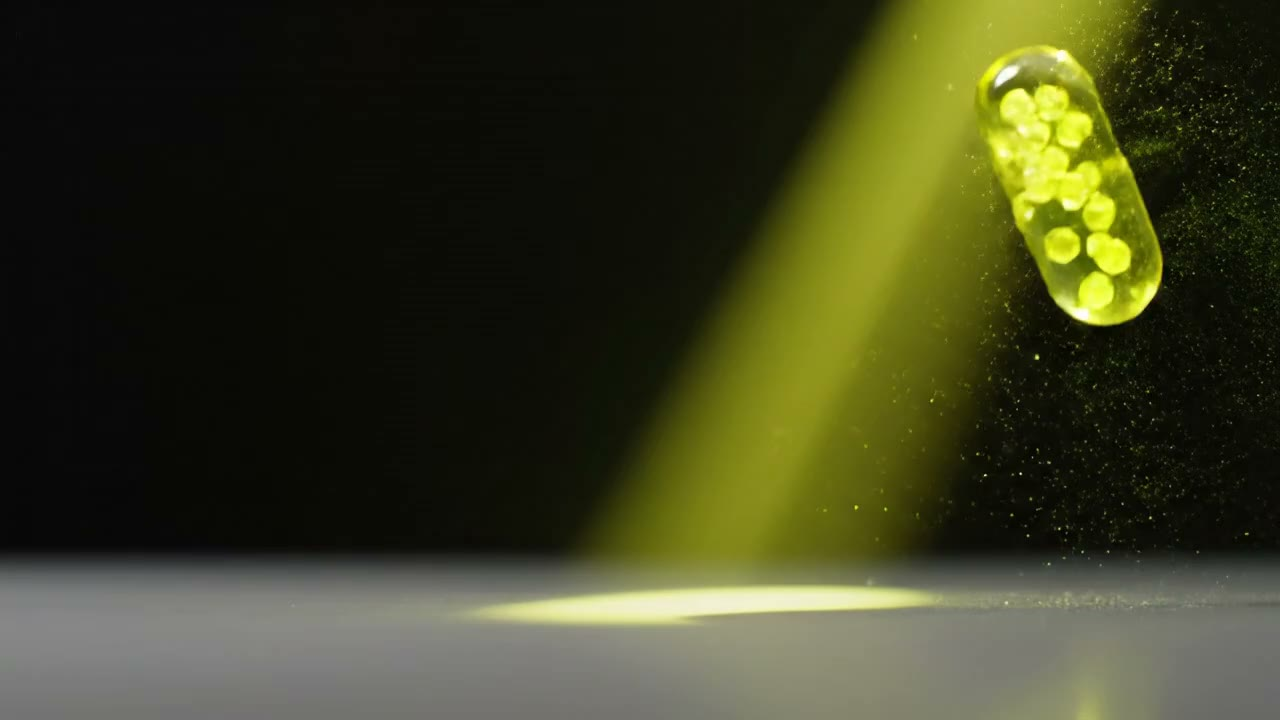
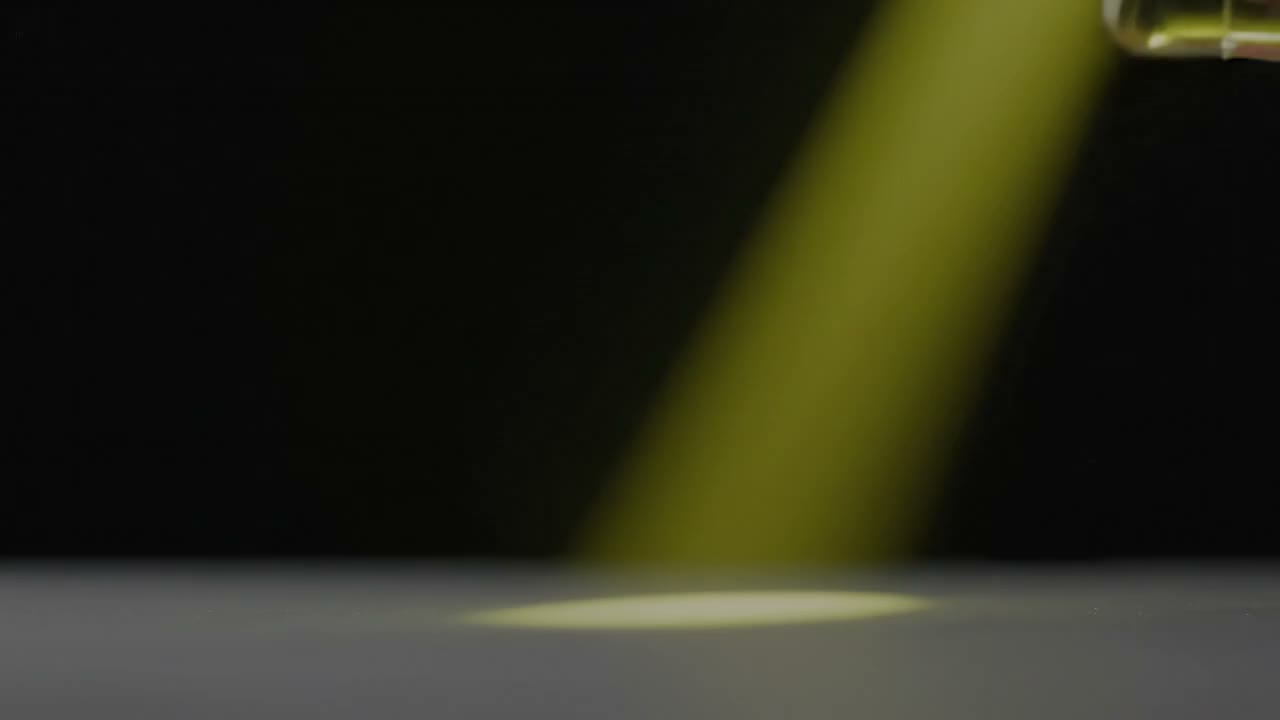
Swap hero video for the calmer capsule-drop footage
Replace the exploding-capsule clip with the new one (capsule falls
and settles once, much smaller/cleaner file: ~1MB vs 4.5MB). Retune
the scrim and object-position after checking the loop end-to-end at
375/768/1024/1440/1920px: push the subject further right and darken
the bottom of the frame earlier so it never sits behind the stats
row, and extend the softer mobile-style overlay up through tablet
width (960px) where the text column was getting close to the glow.

diff --git a/style.css b/style.css
@@ -276,7 +276,7 @@ body.no-scroll { overflow: hidden; }
   width: 100%;
   height: 100%;
   object-fit: cover;
-  object-position: 65% 45%;
+  object-position: 88% 42%;
 }
 
 .hero__scrim {
@@ -285,8 +285,8 @@ body.no-scroll { overflow: hidden; }
   z-index: 1;
   pointer-events: none;
   background:
-    linear-gradient(90deg, rgba(6, 6, 6, 0.96) 0%, rgba(6, 6, 6, 0.86) 24%, rgba(6, 6, 6, 0.5) 44%, rgba(6, 6, 6, 0.12) 66%, transparent 85%),
-    linear-gradient(180deg, transparent 50%, rgba(6, 6, 6, 0.55) 82%, var(--bg) 100%);
+    linear-gradient(90deg, rgba(6, 6, 6, 0.97) 0%, rgba(6, 6, 6, 0.93) 20%, rgba(6, 6, 6, 0.82) 38%, rgba(6, 6, 6, 0.55) 52%, rgba(6, 6, 6, 0.22) 65%, rgba(6, 6, 6, 0.05) 80%, transparent 92%),
+    linear-gradient(180deg, transparent 28%, rgba(6, 6, 6, 0.8) 55%, rgba(6, 6, 6, 0.97) 70%, var(--bg) 84%);
 }
 
 .hero__inner {
@@ -693,12 +693,13 @@ body.no-scroll { overflow: hidden; }
   .compare { grid-template-columns: 1fr; }
 }
 
-@media (max-width: 720px) {
-  .hero { min-height: clamp(560px, 82vh, 760px); }
-  .hero__bg-video { object-position: 74% 38%; }
+@media (max-width: 960px) {
+  .hero { min-height: clamp(560px, 82vh, 780px); }
+  .hero__copy { max-width: 560px; }
+  .hero__bg-video { object-position: 62% 55%; }
   .hero__scrim {
     background:
-      linear-gradient(180deg, rgba(6, 6, 6, 0.82) 0%, rgba(6, 6, 6, 0.58) 42%, rgba(6, 6, 6, 0.78) 76%, var(--bg) 100%);
+      linear-gradient(180deg, rgba(6, 6, 6, 0.9) 0%, rgba(6, 6, 6, 0.78) 30%, rgba(6, 6, 6, 0.72) 55%, rgba(6, 6, 6, 0.85) 78%, var(--bg) 100%);
   }
 }
 